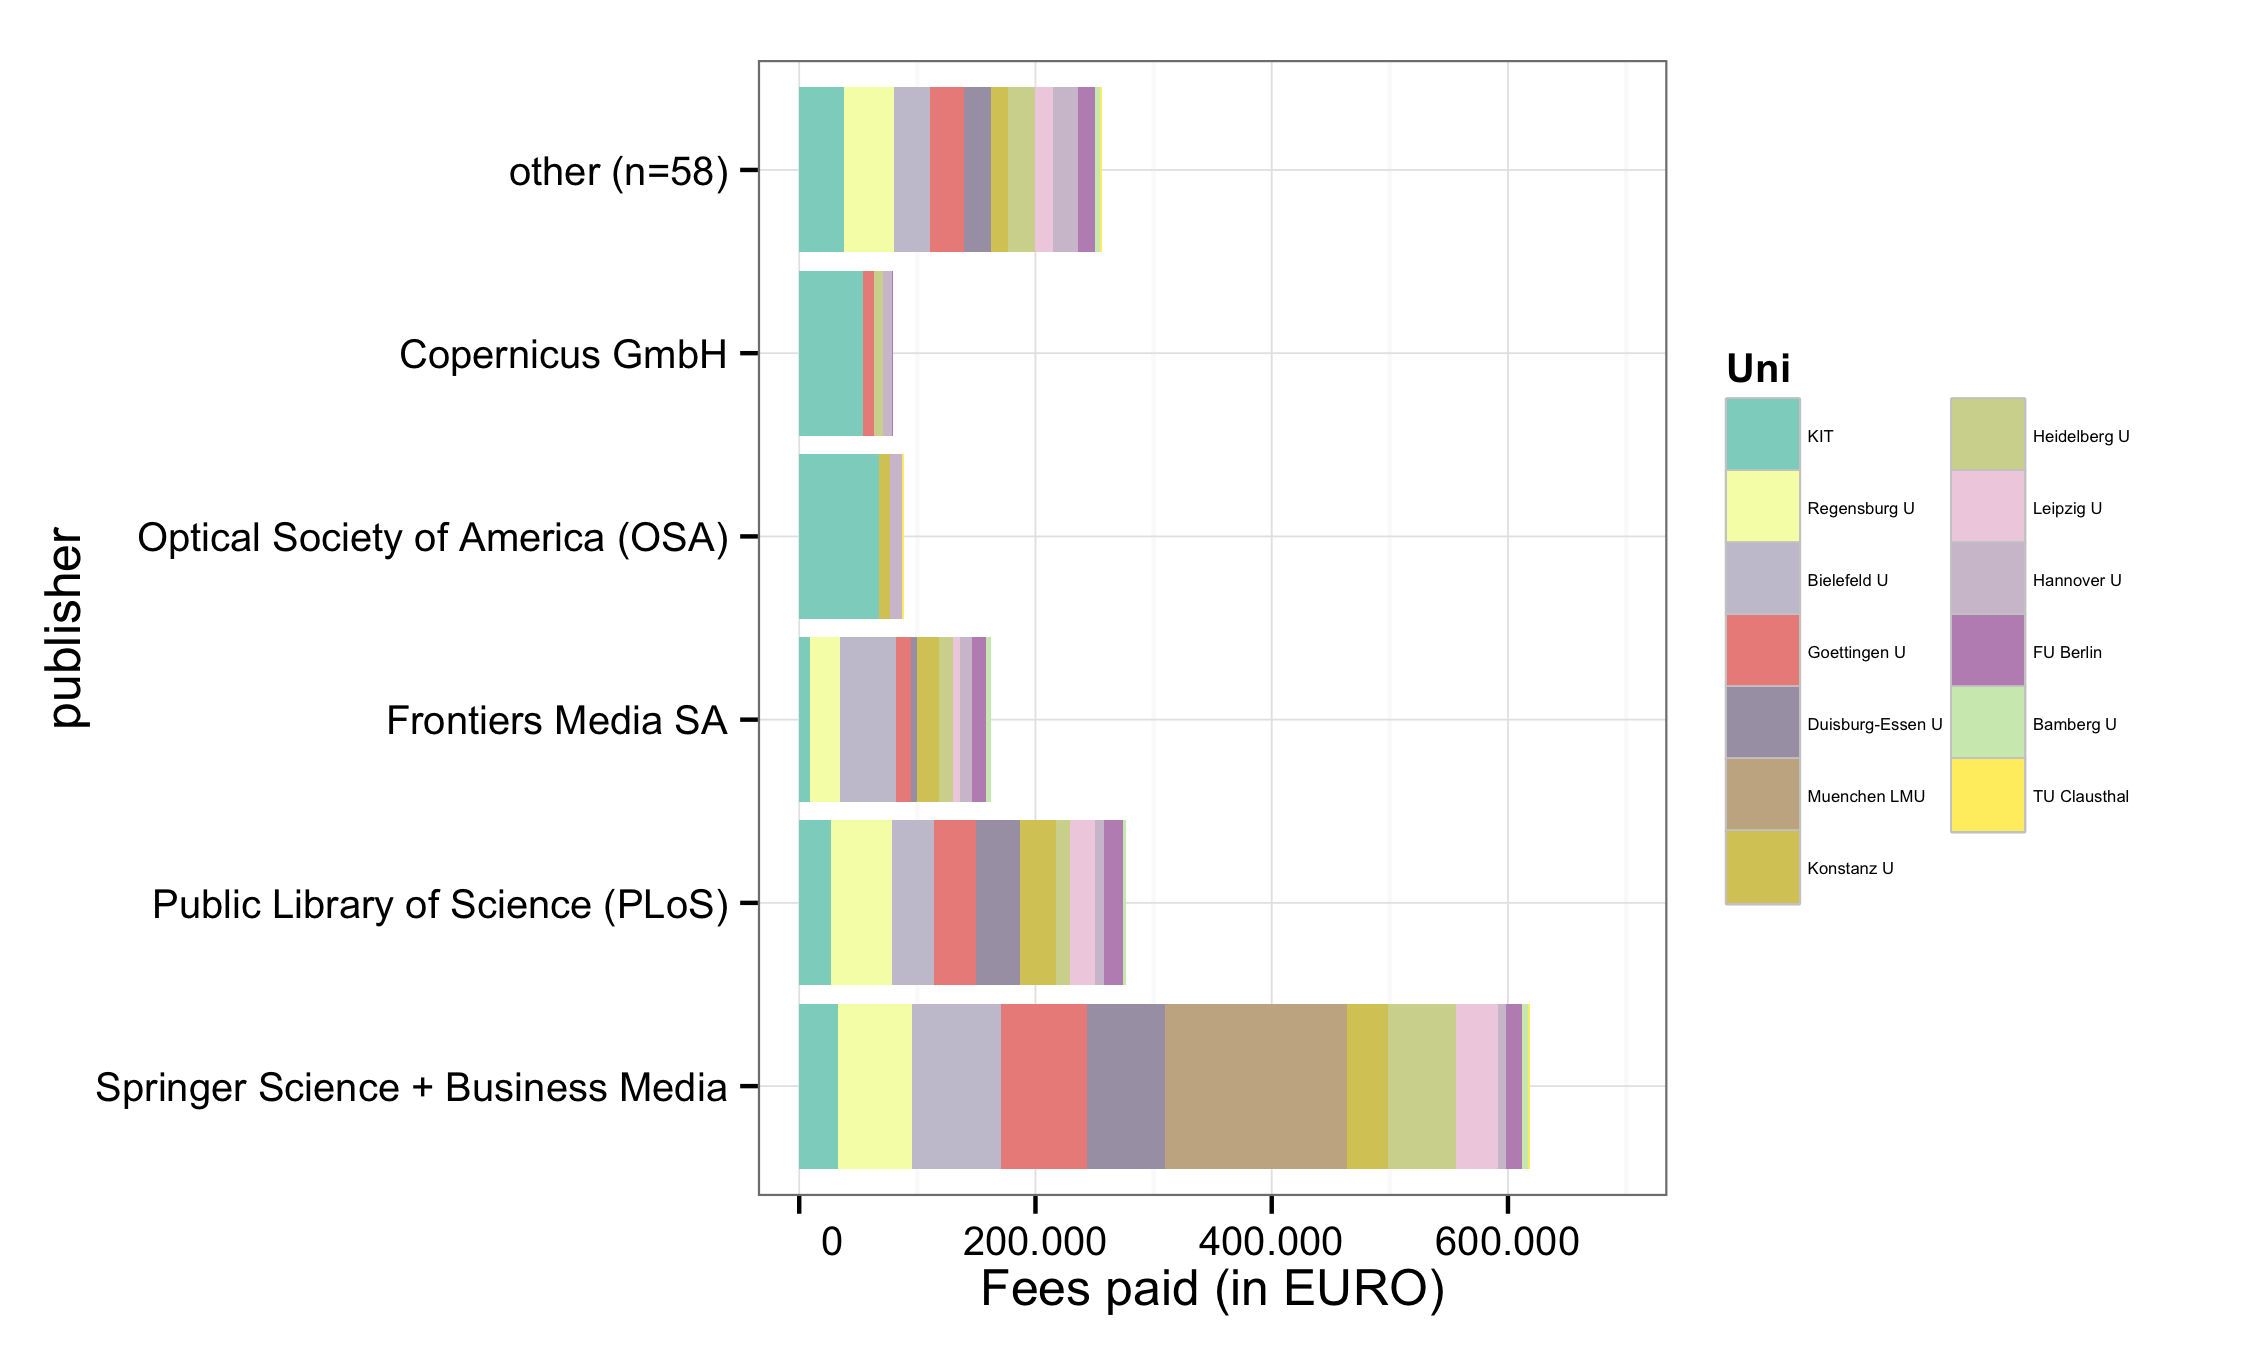
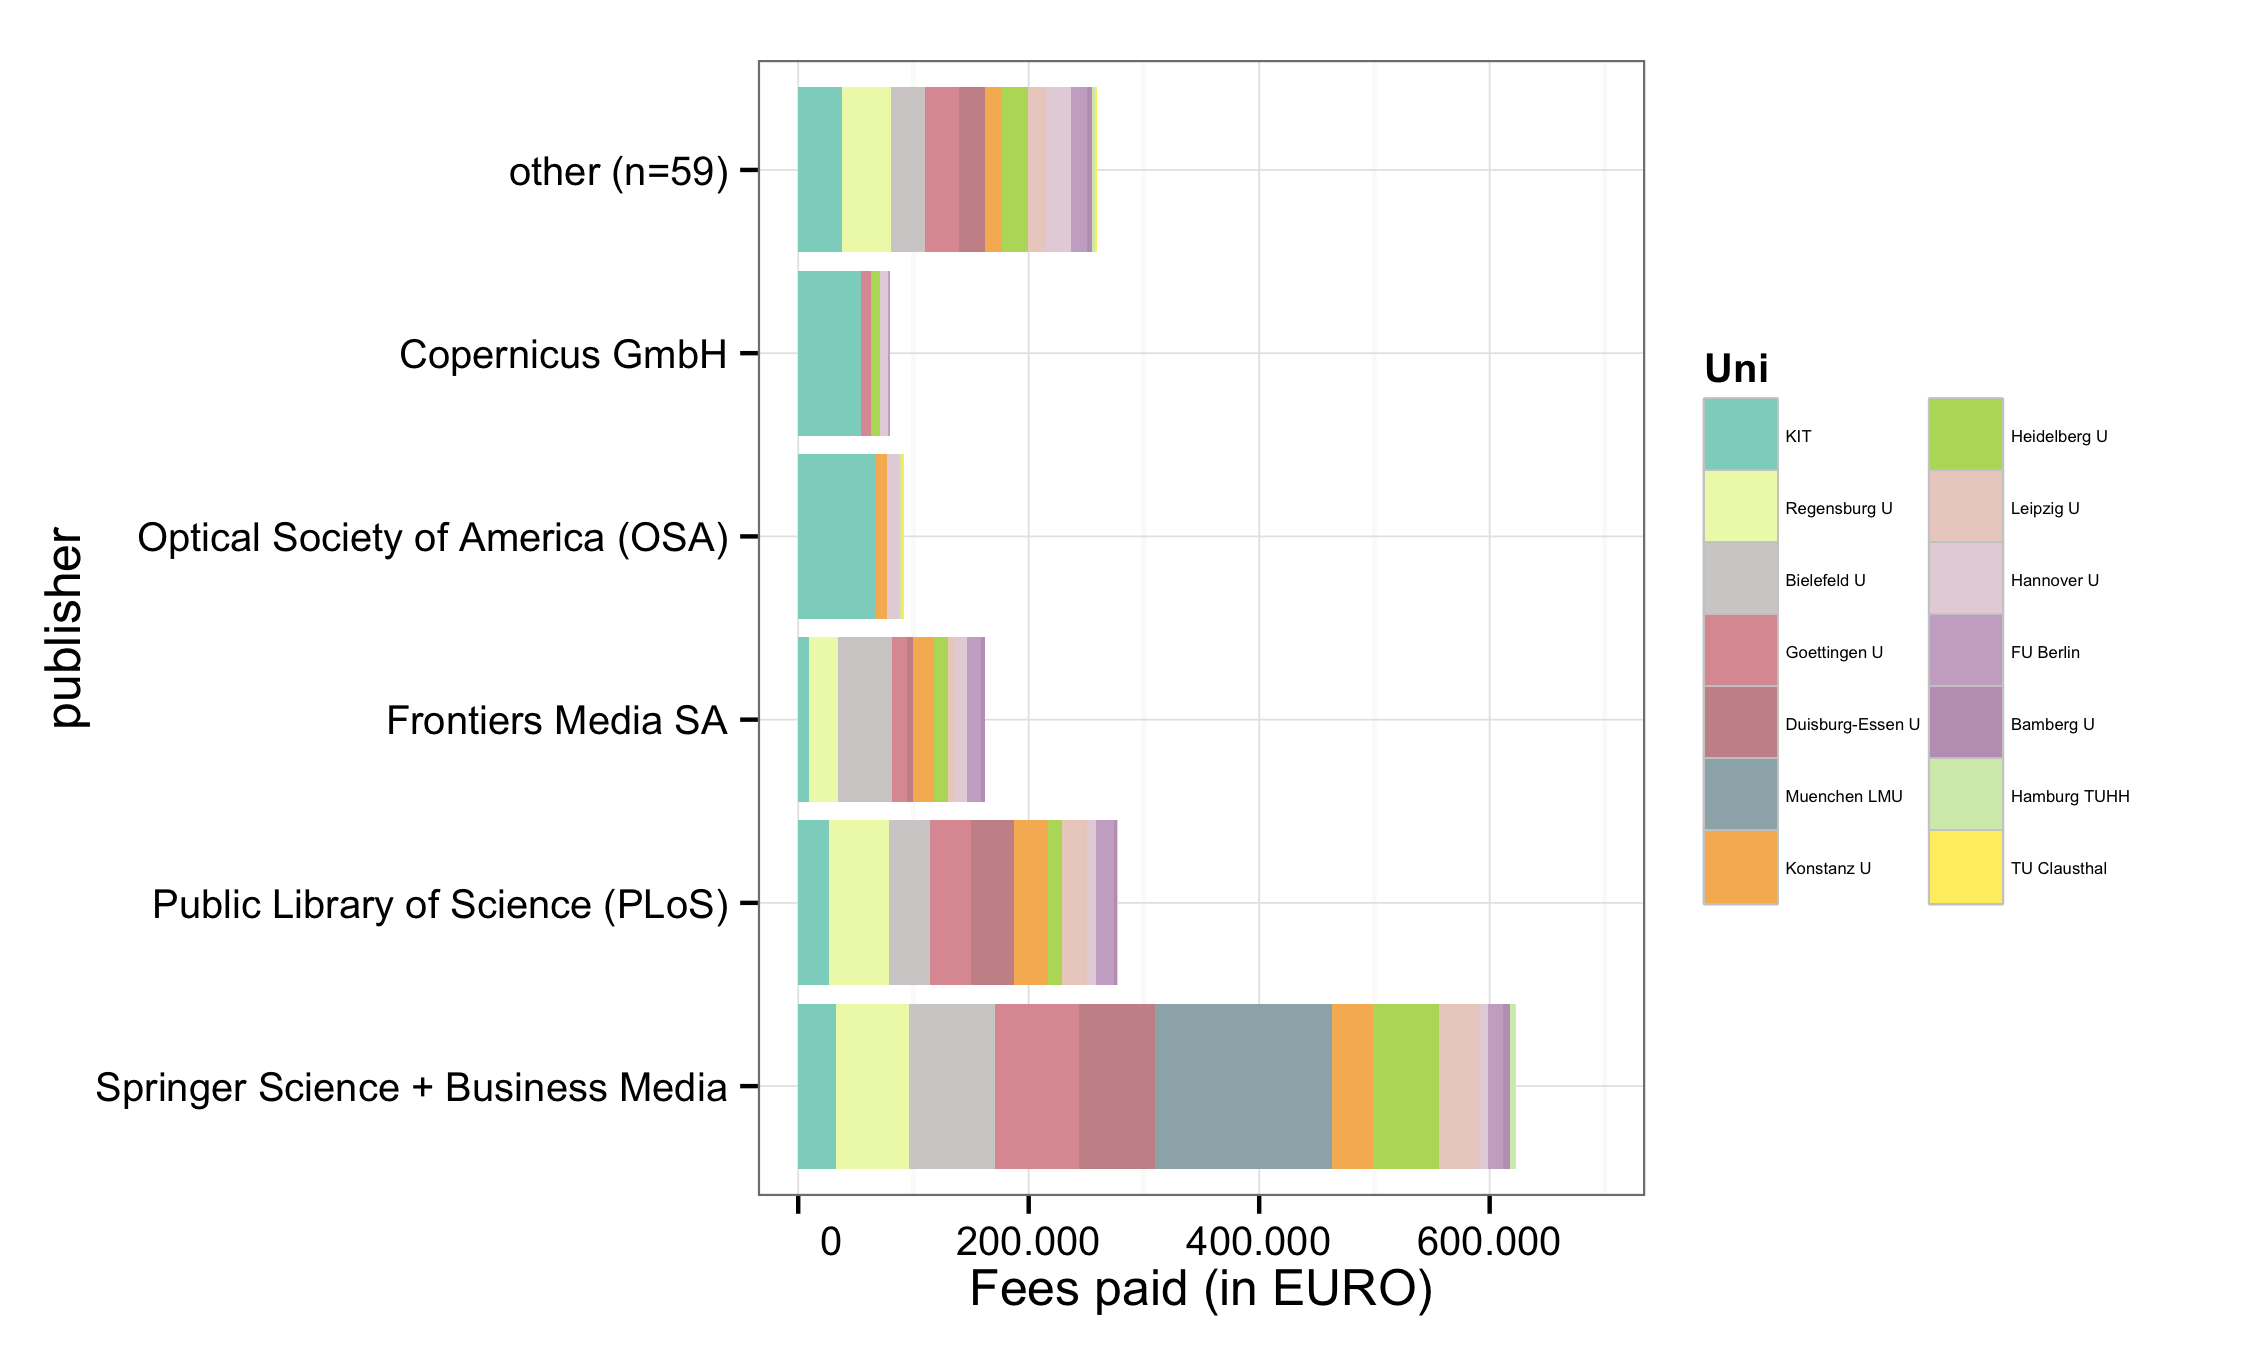
tuhh 2014

diff --git a/README.md b/README.md
@@ -15,6 +15,7 @@ So far, the following German universities have agreed to share information on pa
 
 - [Bielefeld University](http://oa.uni-bielefeld.de/publikationsfonds.html)
 - [Clausthal University of Technology](http://www.ub.tu-clausthal.de/en/angebote-fuer-wissenschaftlerinnen/elektronisches-publizieren/publikationsfonds/)
+- [Hamburg University of Technology](https://www.tub.tu-harburg.de/publizieren/openaccess/)
 - [Heidelberg University](http://www.ub.uni-heidelberg.de/Englisch/service/openaccess/publikationsfonds.html)
 - [Leibniz Universität Hannover](http://tib.uni-hannover.de/oafonds)
 - [Leipzig University](https://www.ub.uni-leipzig.de/open-access/publikationsfonds/)
@@ -46,7 +47,7 @@ The data content covers APCs as paid for by our central budget for the Max Planc
 
 
 
-At the moment, the dataset releases information on 2 387 articles, with total expenditure of 2 956 480€. Average fee is 1 238.6€.
+At the moment, the dataset releases information on 2 397 articles, with total expenditure of 2 968 391€. Average fee is 1 238.4€.
 
 View dataset on [GitHub](https://github.com/OpenAPC/openapc-de/blob/master/data/apc_de.csv).
 
@@ -60,6 +61,7 @@ View dataset on [GitHub](https://github.com/OpenAPC/openapc-de/blob/master/data/
 |FZJ - ZB         |       76|             90411|          1190|
 |GFZ-Potsdam      |       60|             69625|          1160|
 |Goettingen U     |      126|            159186|          1263|
+|Hamburg TUHH     |       10|             11911|          1191|
 |Hannover U       |       49|             63175|          1289|
 |Heidelberg U     |       83|            112238|          1352|
 |KIT              |      194|            228626|          1178|
@@ -135,7 +137,7 @@ This work is licensed under the Creative Commons Attribution 4.0 Unported Licens
 
 Bielefeld University Library archives a remote including version history. To cite:
 
-Apel, Jochen; Bertelmann, Roland; Beucke, Daniel; Deinzer, Gernot; Dorner, Andrea; Herb, Ulrich; Franke, Fabian; Frick, Claudia; Geschuhn, Kai Karin; Jaeger, Doris;  Lützenkirchen, Frank; Oberländer, Anja; 
+Apel, Jochen; Bertelmann, Roland; Beucke, Daniel; Deinzer, Gernot; Dorner, Andrea; Herb, Ulrich; Feldsien-Sudhaus, Inken; Franke, Fabian; Frick, Claudia; Geschuhn, Kai Karin; Jaeger, Doris;  Lützenkirchen, Frank; Oberländer, Anja; 
 Peil, Vitali; Pieper, Dirk; Schlachter, Michael; Schlegel, Birgit; Sikora, Adriana; Tullney, Marco; Vieler, Astrid; Witt, Sabine; Jahn, Najko; (2014): *Datasets on fee-based Open Access publishing across German Institutions*. Bielefeld University. [10.4119/UNIBI/UB.2014.18](http://dx.doi.org/10.4119/UNIBI/UB.2014.18)
 
 ## Acknowledgement
@@ -146,7 +148,7 @@ For data enrichment, sample visualisations and explorations we build on the work
 
 ## Contributors
 
-Jochen Apel, Roland Bertelmann, Daniel Beucke, Gernot Deinzer, Andrea Dorner, Ulrich Herb, Fabian Franke, Claudia Frick, Kai Karin Geschuhn, Doris Jaeger, Frank Lützenkirchen, Anja Oberländer, Vitali Peil, Dirk Pieper, Michael Schlachter, Birgit Schlegel, Adriana Sikora, Marco Tullney, Astrid Vieler, Sabine Witt, Najko Jahn
+Jochen Apel, Roland Bertelmann, Daniel Beucke, Gernot Deinzer, Andrea Dorner, Ulrich Herb, Inken Feldsien-Sudhaus, Fabian Franke, Claudia Frick, Kai Karin Geschuhn, Doris Jaeger, Frank Lützenkirchen, Anja Oberländer, Vitali Peil, Dirk Pieper, Michael Schlachter, Birgit Schlegel, Adriana Sikora, Marco Tullney, Astrid Vieler, Sabine Witt, Najko Jahn
 
 ## Contact
 

diff --git a/data/tuhh/README.md b/data/tuhh/README.md
@@ -1,0 +1,5 @@
+Cost data Hamburg University of Technology (TUHH)
+
+<https://www.tub.tu-harburg.de/publizieren/openaccess/open-access-fonds/>
+
+Contact Person : Inken Feldsien-Sudhaus <mailto:openaccess@tuhh.de>
